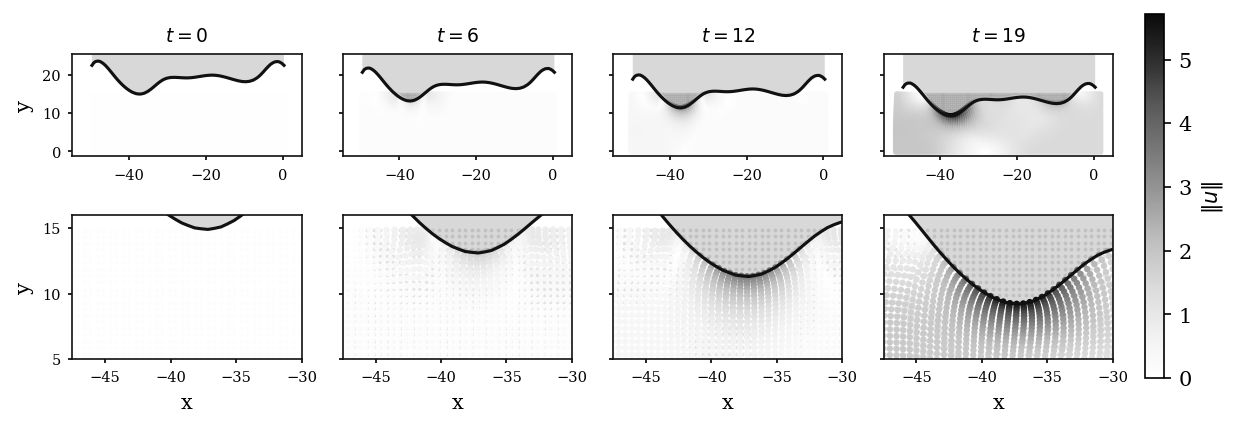
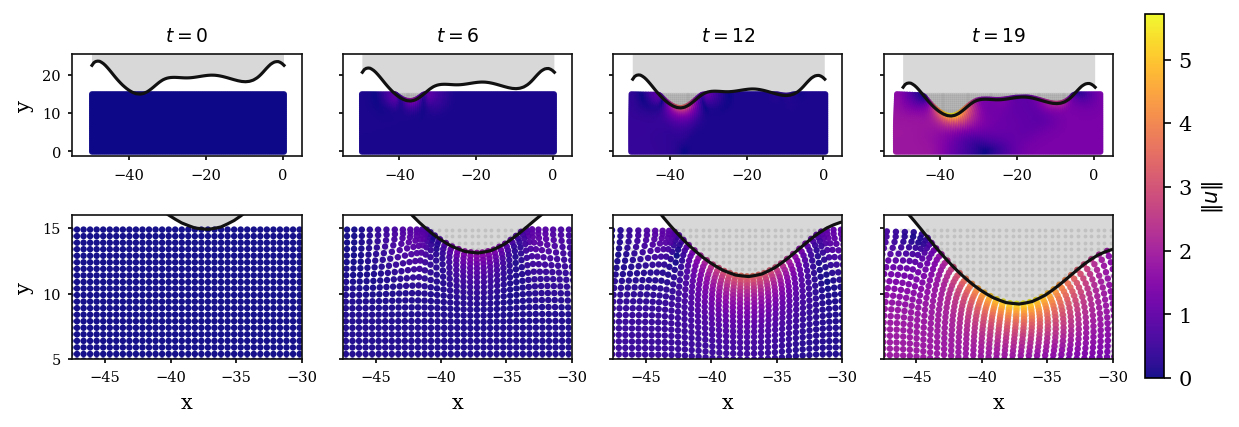
feat: plasticity x free

diff --git a/notebooks/plasticity.py b/notebooks/plasticity.py
@@ -23,7 +23,7 @@ DATA_DIR = REPO_ROOT / "data/plasticity"
 FIGURES_DIR = REPO_ROOT / "docs/figures/plasticity"
 FIGURES_DIR.mkdir(parents=True, exist_ok=True)
 
-CMAP = "Greys"
+CMAP = "plasma"
 plt.rcParams.update(
     {
         "font.family": "serif",
@@ -923,6 +923,217 @@ fig, profile_ax = plt.subplots(figsize=(6.4, 5.2))
 draw_envelope_profile(profile_ax)
 
 out_path = FIGURES_DIR / "plasticity_envelope_constraint_schematic.png"
+fig.savefig(out_path, bbox_inches="tight")
+plt.show()
+print(f"Saved {out_path}")
+
+
+# %% Model mesh overlay: unconstrained vs envelope-constrained
+# Loads the two trained Transolver checkpoints, rolls each out on the same test
+# sample, and overlays the predicted mesh on the ground-truth mesh. The point is
+# the learning difference: the unconstrained model can drift off the true mesh,
+# while the envelope-constrained model is ordered and capped by construction.
+import plasticity_model_gif as pmg
+import torch
+from matplotlib.collections import LineCollection  # noqa: F401  (used via pmg.add_mesh)
+from matplotlib.lines import Line2D
+
+from omni_hc.benchmarks.plasticity.data import build_test_loader
+from omni_hc.core import compose_run_config, parse_dotted_overrides
+from omni_hc.integrations.nsl import create_model
+from omni_hc.training.common import load_checkpoint_state, load_model_state_dict
+
+OVERLAY_SAMPLE_IDX = 0
+OVERLAY_TIMESTEP = -1  # last timestep (fully deformed); set to an int in [0, T)
+
+# (row label, run directory). The unconstrained baseline is on top.
+MODEL_RUNS = (
+    (
+        "Unconstrained",
+        REPO_ROOT / "outputs/plasticity/none/Transolver/debug/seed_42",
+    ),
+    (
+        "Envelope constrained",
+        REPO_ROOT
+        / "outputs/plasticity/plasticity_envelope_constraint/transolver/debug/seed_42",
+    ),
+)
+
+GT_MESH_COLOR = "#94a3b8"
+PRED_MESH_COLOR = "#dc2626"
+
+
+def load_model_prediction(run_dir, sample_idx, *, device=None):
+    """Roll a trained checkpoint out on one test sample.
+
+    Returns ``(pred_coords, target_coords)``, each of shape ``(H, W, T, 2)`` in
+    physical space, reconstructed the same way as the diagnostics GIFs.
+    """
+    run_dir = Path(run_dir)
+    device = device or torch.device("cpu")
+    cfg = compose_run_config(
+        experiment=str(run_dir / "resolved_config.yaml"),
+        mode="test",
+        extra_overrides=parse_dotted_overrides([f"paths.root_dir={DATA_DIR}"]),
+    )
+    loader = build_test_loader(cfg)
+    meta = loader.plasticity_meta
+    x_normalizer = getattr(loader, "x_normalizer", None)
+    if x_normalizer is not None:
+        x_normalizer = x_normalizer.to(device)
+    y_normalizer = getattr(loader, "y_normalizer", None)
+    if y_normalizer is not None:
+        y_normalizer = y_normalizer.to(device)
+
+    model, _, _ = create_model(
+        cfg,
+        device=device,
+        runtime_overrides=pmg.runtime_overrides(meta),
+    )
+    if (
+        x_normalizer is not None
+        and hasattr(model, "constraint")
+        and hasattr(model.constraint, "set_input_normalizer")
+    ):
+        model.constraint.set_input_normalizer(x_normalizer)
+
+    checkpoint_path = run_dir / "best.pt"
+    if not checkpoint_path.exists():
+        checkpoint_path = run_dir / "latest.pt"
+    checkpoint = load_checkpoint_state(checkpoint_path, device=device)
+    load_model_state_dict(model, checkpoint["model_state_dict"])
+    model.eval()
+
+    batch = pmg.get_sample_batch(loader, sample_idx, device=device)
+    pred, target, _ = pmg.predict_sequence(
+        model,
+        batch,
+        y_normalizer=y_normalizer,
+        t_out=int(meta["t_out"]),
+    )
+    h, w = tuple(meta["shapelist"])
+    t_out, out_dim = int(meta["t_out"]), int(meta["out_dim"])
+    pred_seq = pred[0].detach().cpu().reshape(h, w, t_out, out_dim).numpy()
+    target_seq = target[0].detach().cpu().reshape(h, w, t_out, out_dim).numpy()
+    material = pmg.infer_material(target_seq)
+    return pmg.plot_coords(pred_seq, material), pmg.plot_coords(target_seq, material)
+
+
+overlay_predictions = [
+    (label, *load_model_prediction(run_dir, OVERLAY_SAMPLE_IDX))
+    for label, run_dir in MODEL_RUNS
+]
+
+fig, axes = plt.subplots(2, 1, figsize=(8.0, 5.4), sharex=True, sharey=True)
+fig.subplots_adjust(hspace=0.12)
+
+overlay_coord_sets = []
+for _label, pred_coords, target_coords in overlay_predictions:
+    overlay_coord_sets.append(pred_coords[:, :, OVERLAY_TIMESTEP])
+    overlay_coord_sets.append(target_coords[:, :, OVERLAY_TIMESTEP])
+
+for ax, (label, pred_coords, target_coords) in zip(axes, overlay_predictions):
+    pred_t = pred_coords[:, :, OVERLAY_TIMESTEP]
+    target_t = target_coords[:, :, OVERLAY_TIMESTEP]
+    pmg.add_mesh(ax, target_t, color=GT_MESH_COLOR, linewidth=0.5, alpha=0.95, step=1)
+    pmg.add_mesh(ax, pred_t, color=PRED_MESH_COLOR, linewidth=0.5, alpha=0.8, step=1)
+    rel_l2 = float(
+        np.linalg.norm((pred_t - target_t).reshape(-1))
+        / max(np.linalg.norm(target_t.reshape(-1)), 1.0e-12)
+    )
+    ax.set_title(f"{label}  (rel. $L_2$ = {rel_l2:.4f})", fontsize=10)
+    ax.set_aspect("equal", adjustable="box")
+    ax.set_ylabel("y")
+    ax.tick_params(labelsize=7, length=2)
+    for spine in ax.spines.values():
+        spine.set_visible(True)
+        spine.set_color("#111111")
+        spine.set_linewidth(0.8)
+
+axes[-1].set_xlabel("x")
+fig.legend(
+    handles=[
+        Line2D([], [], color=GT_MESH_COLOR, linewidth=1.6, label="ground truth"),
+        Line2D([], [], color=PRED_MESH_COLOR, linewidth=1.2, label="prediction"),
+    ],
+    loc="lower center",
+    bbox_to_anchor=(0.5, 0.0),
+    ncol=2,
+    fontsize=9,
+    frameon=False,
+)
+pmg.set_shared_limits(axes, *overlay_coord_sets)
+
+out_path = FIGURES_DIR / "plasticity_model_mesh_overlay.png"
+fig.savefig(out_path, bbox_inches="tight")
+plt.show()
+print(f"Saved {out_path}")
+
+
+# %% Validation rel-L2 curves: none vs mesh vs envelope (e50_t500)
+# Reads the wandb-exported val/rel_l2 history (column 1 of val_rel_l2.csv) for
+# the three constraint families at the e50_t500 budget and plots them together
+# on a log y-axis, showing the early inductive-bias head start of the
+# constrained models versus the unconstrained baseline.
+import csv
+
+VAL_CURVE_BUDGET = "e50_t500"
+# (label, constraint dir)
+VAL_CURVE_RUNS = (
+    ("Unconstrained", "none"),
+    ("Mesh consistency", "plasticity_mesh_consistency_constraint"),
+    ("Envelope", "plasticity_envelope_constraint"),
+)
+# Sample one colour per run from CMAP, avoiding the very light/dark extremes.
+val_curve_colors = plt.get_cmap(CMAP)(np.linspace(0.1, 0.8, len(VAL_CURVE_RUNS)))
+
+
+def load_val_curve(csv_path):
+    """Return (steps, val_rel_l2) from a wandb-exported val_rel_l2.csv.
+
+    Column 0 is the step; column 1 is the run's val/rel_l2 (the __MIN/__MAX
+    columns duplicate it for single-seed exports and are ignored).
+    """
+    steps, values = [], []
+    with open(csv_path, newline="") as handle:
+        reader = csv.reader(handle)
+        next(reader, None)  # header
+        for row in reader:
+            if len(row) < 2 or not row[0] or not row[1]:
+                continue
+            steps.append(float(row[0]))
+            values.append(float(row[1]))
+    return np.asarray(steps), np.asarray(values)
+
+
+fig, ax = plt.subplots(figsize=(6.6, 4.2))
+for (label, constraint_dir), color in zip(VAL_CURVE_RUNS, val_curve_colors):
+    csv_path = (
+        REPO_ROOT
+        / "outputs/plasticity"
+        / constraint_dir
+        / "transolver"
+        / VAL_CURVE_BUDGET
+        / "seed_42"
+        / "val_rel_l2.csv"
+    )
+    if not csv_path.exists():
+        print(f"skip (missing): {csv_path}")
+        continue
+    steps, values = load_val_curve(csv_path)
+    ax.plot(steps, values, color=color, linewidth=1.6, label=label)
+
+ax.set_yscale("log")
+ax.set_xlabel("training step")
+ax.set_ylabel(r"validation rel. $L_2$")
+ax.set_title(f"Validation rel. $L_2$ over training ({VAL_CURVE_BUDGET})", fontsize=10)
+ax.grid(True, which="both", linewidth=0.4, alpha=0.25)
+ax.legend(fontsize=9, frameon=False)
+for spine in ax.spines.values():
+    spine.set_color("#111111")
+    spine.set_linewidth(0.8)
+
+out_path = FIGURES_DIR / f"plasticity_val_rel_l2_{VAL_CURVE_BUDGET}.png"
 fig.savefig(out_path, bbox_inches="tight")
 plt.show()
 print(f"Saved {out_path}")